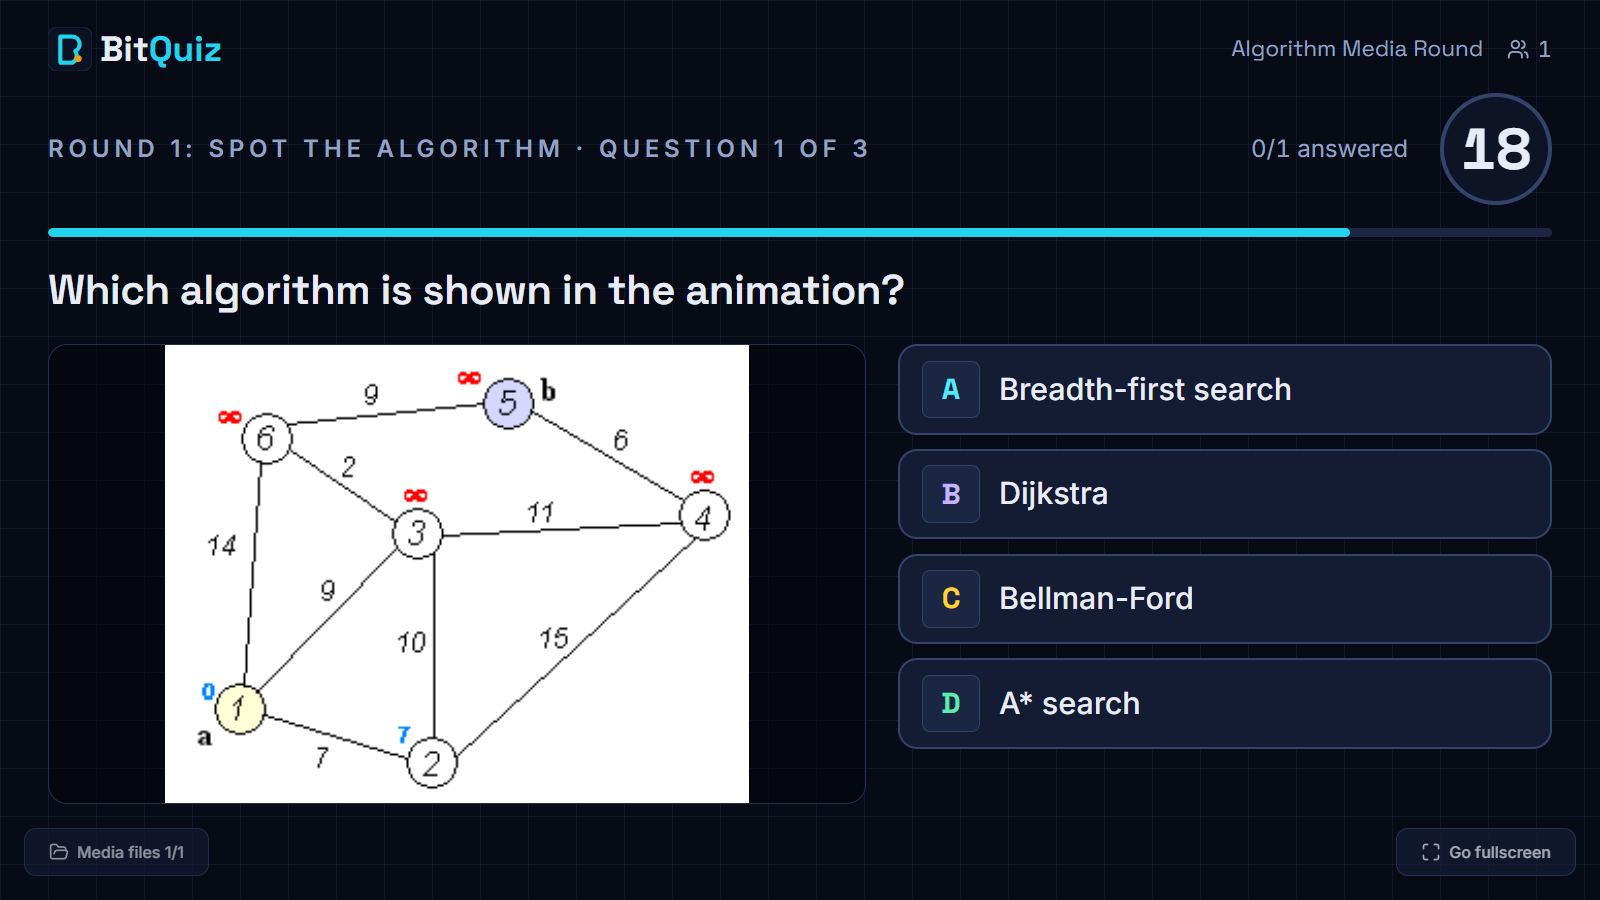
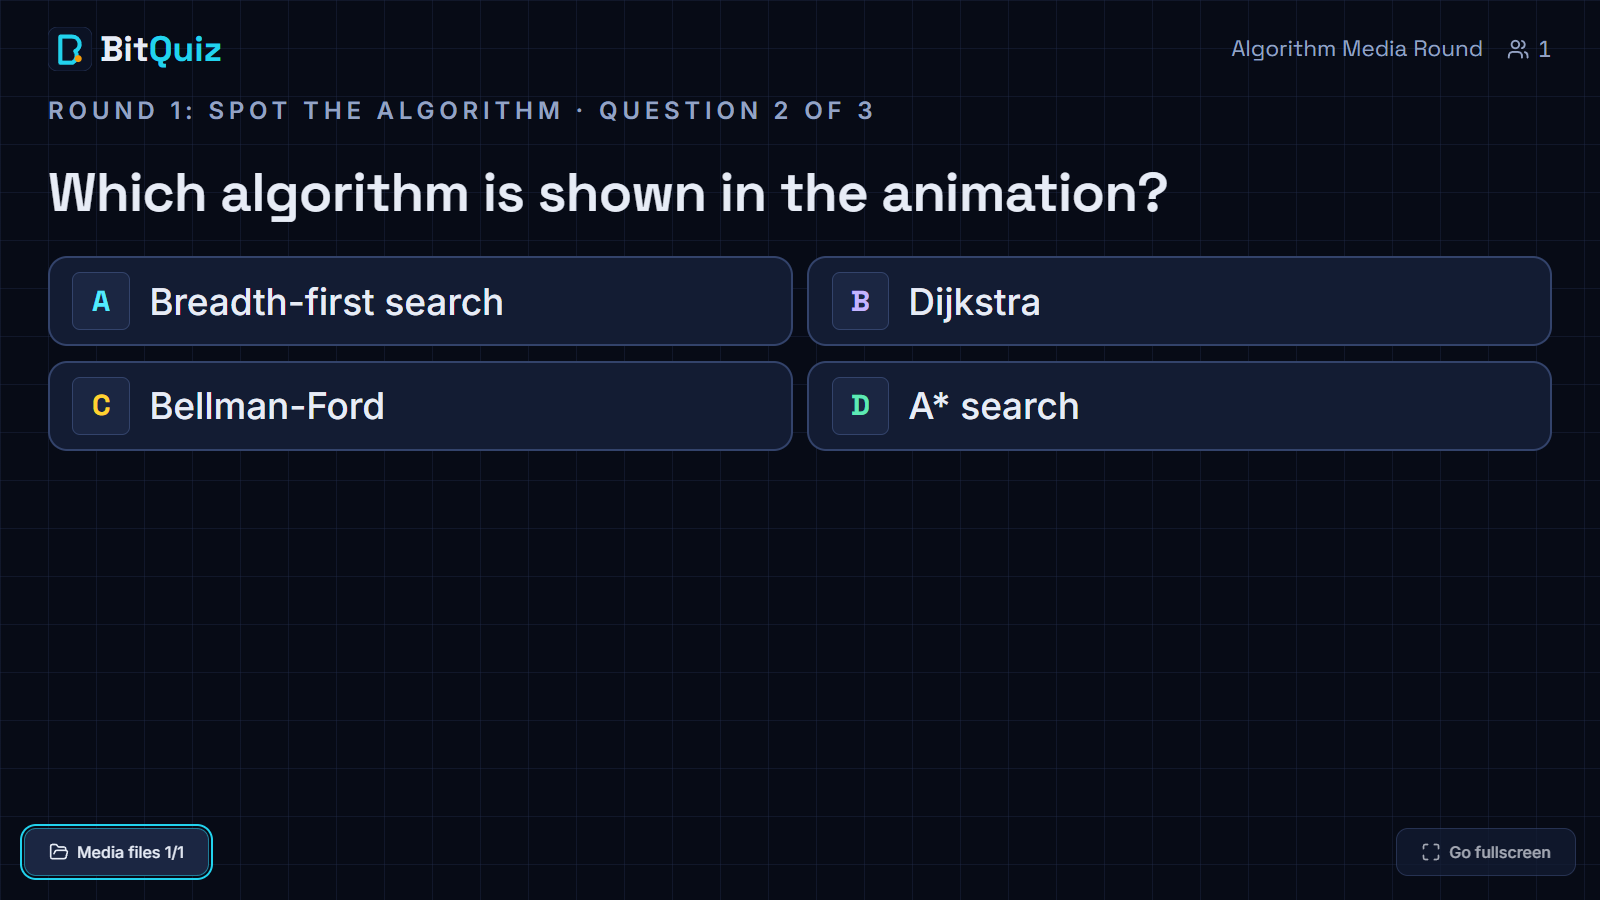
feat: media first, then a text-only question; one step per click
A question with an image or video shows the media alone first. Showing the
question now stops the video and replaces it with the question and options
in the plain text layout, so nobody answers while a video plays. Video
controls only work while the media is on screen, and the media stage can't
be skipped with "Show + open next".

The console's main button ignored nothing, so a double click ran two steps:
it skipped a video's media stage, closed answering the moment it opened, or
jumped past a reveal. After a click the button now waits until the step has
taken effect, and holding Space no longer repeats steps.

diff --git a/server/src/engine/engine.ts b/server/src/engine/engine.ts
@@ -114,7 +114,7 @@ function stripRevision(command: Command): Record<string, unknown> {
 // Command handlers
 // ---------------------------------------------------------------------------
 
-/** Stops the projector video (time's up, void, or a question without media). */
+/** Stops the projector video (question shown, void, or a question without media). */
 const stopMedia = { mediaPlaying: false } satisfies Prisma.CompetitionUpdateInput;
 
 /** Playback for a question that is being shown: its video starts from the beginning, otherwise nothing plays. */
@@ -151,9 +151,11 @@ async function apply(tx: Tx, c: Competition, command: Command, now: Date, actor:
     case 'SHOW_QUESTION': {
       requireStatus(c, 'LIVE');
       const current = await currentQuestion(tx, c);
-      // Second step of a media question: the media has been shown, now show the question and options.
+      // Second step of a media question: the media is done; the question and options replace it
+      // (text only, as for any other question), so the video stops.
       if (current?.status === 'MEDIA' && (!command.questionId || command.questionId === current.id)) {
         await moveQuestion(tx, current, 'SHOWN', {});
+        await tx.competition.update({ where: { id: c.id }, data: stopMedia });
         return { log: { questionId: current.id, stage: 'details' } };
       }
       await requireNoActiveQuestion(tx, c);
@@ -172,7 +174,6 @@ async function apply(tx: Tx, c: Competition, command: Command, now: Date, actor:
       requireStatus(c, 'LIVE');
       const current = await currentQuestion(tx, c);
       let target: QuestionWithRound;
-      let newlyShown = false;
       if (
         current &&
         (current.status === 'SHOWN' || current.status === 'MEDIA') &&
@@ -183,15 +184,16 @@ async function apply(tx: Tx, c: Competition, command: Command, now: Date, actor:
         // "Show + Open" in one step.
         await requireNoActiveQuestion(tx, c);
         target = await pickQuestion(tx, c, command.questionId);
-        newlyShown = true;
+        // Media always comes first, on its own; it can't be skipped by opening straight away.
+        if (target.mediaRef) throw invalid('This question starts with its media: use "Show next question"');
       }
       const { timeLimitSec } = questionRule(target, target.round);
       const endsAt = new Date(now.getTime() + timeLimitSec * 1000);
       await moveQuestion(tx, target, 'OPEN', { shownAt: target.shownAt ?? now, openedAt: now, endsAt });
       await tx.competition.update({
         where: { id: c.id },
-        // Opening answering leaves a playing video alone; only a newly shown question starts its media.
-        data: { currentQuestionId: target.id, displayMode: 'QUESTION', ...(newlyShown ? mediaFor(target) : {}) },
+        // Answering happens on the text-only question: no video plays while people answer.
+        data: { currentQuestionId: target.id, displayMode: 'QUESTION', ...stopMedia },
       });
       return { schedule: { questionId: target.id, endsAt }, log: { questionId: target.id, timeLimitSec } };
     }
@@ -350,6 +352,7 @@ async function apply(tx: Tx, c: Competition, command: Command, now: Date, actor:
       requireStatus(c, 'LIVE');
       const current = await currentQuestion(tx, c);
       if (!current?.mediaRef || current.mediaKind !== 'VIDEO') throw invalid('The current question has no video');
+      if (current.status !== 'MEDIA') throw invalid('The video is only on screen before the question is shown');
       await tx.competition.update({
         where: { id: c.id },
         data: command.type === 'MEDIA_RESTART' ? startMedia : { mediaPlaying: command.type === 'MEDIA_PLAY' },

diff --git a/web/src/pages/console/ConsolePage.tsx b/web/src/pages/console/ConsolePage.tsx
@@ -40,6 +40,9 @@ type CommandInput = Command extends infer C ? (C extends unknown ? Omit<C, 'revi
 
 export type SendCommand = (command: CommandInput, successMessage?: string) => Promise<boolean>;
 
+/** How long the main button ignores presses after a step, so a double click runs one step. */
+const STEP_SETTLE_MS = 500;
+
 const DISPLAY_MODES: Array<{ mode: DisplayMode; label: string; key: string }> = [
   { mode: 'LOBBY', label: 'Lobby', key: '' },
   { mode: 'QUESTION', label: 'Question', key: 'Q' },
@@ -95,18 +98,34 @@ export function ConsolePage() {
     ? nextStep(state.question.status, state.hasPendingQuestions)
     : nextStep(null, state?.hasPendingQuestions ?? false);
 
+  // The main button changes its label under the cursor, so a double click (or a held Space) would
+  // run two steps: skip a video's media stage, close answering just opened, or jump past a reveal.
+  // After a press, further presses wait until the step's result is on screen, plus a moment. Steps
+  // changed by the server alone (the timer running out) don't lock the button.
+  const settleUntil = useRef(0);
+  const settle = useCallback(() => {
+    settleUntil.current = Date.now() + STEP_SETTLE_MS;
+  }, []);
+  const stepKey = `${state?.question?.id ?? ''}:${step}`;
+  useEffect(() => {
+    if (Date.now() < settleUntil.current) settle();
+  }, [stepKey, settle]);
+
   const runMainStep = useCallback(() => {
     const s = stateRef.current;
     if (!s || s.competition.status !== 'LIVE') return;
+    if (Date.now() < settleUntil.current) return;
+    settle();
+    const run = (command: CommandInput) => void send(command).finally(settle);
     const current = s.question?.status ?? null;
     const action = nextStep(current, s.hasPendingQuestions);
-    if (action === 'OPEN') void send({ type: 'OPEN_QUESTION' });
-    else if (action === 'CLOSE') void send({ type: 'CLOSE_QUESTION' });
-    else if (action === 'REVEAL') void send({ type: 'REVEAL' });
-    // DETAILS: the media is on screen; showing again reveals the question text and options.
-    else if (action === 'SHOW' || action === 'NEXT' || action === 'DETAILS') void send({ type: 'SHOW_QUESTION' });
+    if (action === 'OPEN') run({ type: 'OPEN_QUESTION' });
+    else if (action === 'CLOSE') run({ type: 'CLOSE_QUESTION' });
+    else if (action === 'REVEAL') run({ type: 'REVEAL' });
+    // DETAILS: the media is on screen; showing again replaces it with the question and options.
+    else if (action === 'SHOW' || action === 'NEXT' || action === 'DETAILS') run({ type: 'SHOW_QUESTION' });
     else if (action === 'FINISH') setConfirmFinish(true);
-  }, [send]);
+  }, [send, settle]);
 
   useEffect(() => {
     const onKey = (event: KeyboardEvent) => {
@@ -117,6 +136,7 @@ export function ConsolePage() {
       if (!s) return;
       if (event.code === 'Space' && target.tagName !== 'BUTTON') {
         event.preventDefault();
+        if (event.repeat) return;
         runMainStep();
       } else if (event.key.toLowerCase() === 'l') void send({ type: 'SET_DISPLAY', mode: 'LEADERBOARD' });
       else if (event.key.toLowerCase() === 'q') void send({ type: 'SET_DISPLAY', mode: 'QUESTION' });

diff --git a/server/test/media.test.ts b/server/test/media.test.ts
@@ -88,6 +88,12 @@ describe.skipIf(!hasDatabase)('question media (integration)', () => {
       .set(CSRF)
       .send(question(3, { mediaKind: 'IMAGE', mediaSource: 'LOCAL', mediaRef: 'graph.png', mediaOnPhones: true }));
     expect(localOnPhones.status).toBe(400);
+
+    const image = await owner
+      .post(`/api/competitions/rounds/${roundId}/questions`)
+      .set(CSRF)
+      .send(question(3, { mediaKind: 'IMAGE', mediaSource: 'LINK', mediaRef: 'https://example.com/graph.png' }));
+    expect(image.status).toBe(201);
   });
 
   it('starts the video when a question is shown, and the console can pause and restart it', async () => {
@@ -110,16 +116,18 @@ describe.skipIf(!hasDatabase)('question media (integration)', () => {
     expect(await detail()).toMatchObject({ mediaPlaying: true, mediaRestartCount: 2 });
   });
 
-  it('shows the question and options on the second step, and opening answering keeps the video going', async () => {
+  it('replaces the media with the text-only question on the second step', async () => {
     expect((await command({ type: 'SHOW_QUESTION' })).status).toBe(200);
     expect(await questionStatus(1)).toBe('SHOWN');
+    // The video stops: the question and options take its place.
+    expect(await detail()).toMatchObject({ mediaPlaying: false, mediaRestartCount: 2 });
+    const play = await command({ type: 'MEDIA_PLAY' });
+    expect(play.status).toBe(409);
+    expect(play.body.error.message).toMatch(/before the question is shown/);
     expect((await command({ type: 'OPEN_QUESTION' })).status).toBe(200);
     expect(await questionStatus(1)).toBe('OPEN');
-    // Same restart count as before: opening didn't jump the video back to the start.
-    expect(await detail()).toMatchObject({ mediaPlaying: true, mediaRestartCount: 2 });
-    // Time's up: the video stops so the reveal isn't talked over.
-    await command({ type: 'CLOSE_QUESTION' });
     expect((await detail()).mediaPlaying).toBe(false);
+    await command({ type: 'CLOSE_QUESTION' });
     await command({ type: 'REVEAL' });
   });
 
@@ -134,5 +142,17 @@ describe.skipIf(!hasDatabase)('question media (integration)', () => {
     const res = await command({ type: 'MEDIA_PLAY' });
     expect(res.status).toBe(409);
     expect(res.body.error.message).toMatch(/no video/);
+  });
+
+  it('never skips the media stage: a question with media cannot be shown and opened at once', async () => {
+    await command({ type: 'OPEN_QUESTION' });
+    await command({ type: 'CLOSE_QUESTION' });
+    await command({ type: 'REVEAL' });
+    const skip = await command({ type: 'OPEN_QUESTION' });
+    expect(skip.status).toBe(409);
+    expect(skip.body.error.message).toMatch(/starts with its media/);
+    expect(await questionStatus(3)).toBe('PENDING');
+    expect((await command({ type: 'SHOW_QUESTION' })).status).toBe(200);
+    expect(await questionStatus(3)).toBe('MEDIA');
   });
 });

diff --git a/web/src/pages/console/CurrentQuestionPanel.tsx b/web/src/pages/console/CurrentQuestionPanel.tsx
@@ -56,6 +56,9 @@ export function CurrentQuestionPanel({ state, clock, busy, send, step, onMainSte
   const main = step ? STEP_LABEL[step] : null;
   const active = question && ACTIVE_QUESTION_STATUSES.includes(question.status);
   const totalAnswers = Object.values(question?.distribution ?? {}).reduce((a, b) => a + (b ?? 0), 0);
+  // A question with media always starts with the media alone, so it can't be shown and opened at once.
+  const nextPending = state.runSheet.flatMap((r) => r.questions).find((q) => q.status === 'PENDING');
+  const canShowAndOpen = !active && nextPending !== undefined && !nextPending.hasMedia;
 
   return (
     <Card className="overflow-hidden">
@@ -106,7 +109,8 @@ export function CurrentQuestionPanel({ state, clock, busy, send, step, onMainSte
           <>
             <p className="text-xl font-semibold leading-snug">{question.prompt}</p>
             {question.code && <CodeBlock code={question.code} language={question.codeLanguage} className="text-sm" />}
-            {question.media && (
+            {/* The media is on screen only in its own stage; the question itself is text only. */}
+            {question.media && question.status === 'MEDIA' && (
               <MediaPanel
                 questionId={question.id}
                 media={question.media}
@@ -170,7 +174,7 @@ export function CurrentQuestionPanel({ state, clock, busy, send, step, onMainSte
               <kbd className="ml-2 rounded bg-black/20 px-1.5 py-0.5 font-mono text-xs">Space</kbd>
             </Button>
           )}
-          {!active && state.hasPendingQuestions && (
+          {canShowAndOpen && (
             <Button
               size="lg"
               disabled={busy}

diff --git a/server/src/realtime/views.ts b/server/src/realtime/views.ts
@@ -76,11 +76,13 @@ export function toCompetitionView(c: CompetitionRecord): CompetitionView {
 }
 
 /**
- * Media a role receives. The projector and console get everything; phones only get linked images
- * marked "show on phones", so 300 phones never download a video.
+ * Media a role receives. The projector shows media only in the media stage: once the question is
+ * shown, it gets the text-only layout. Phones only get linked images marked "show on phones", so
+ * 300 phones never download a video.
  */
 export function mediaFor(role: ViewerRole, question: QuestionRecord): QuestionMedia | null {
   if (!question.mediaKind || !question.mediaSource || !question.mediaRef) return null;
+  if (role === 'screen' && question.status !== 'MEDIA') return null;
   const media: QuestionMedia = {
     kind: question.mediaKind,
     source: question.mediaSource,

diff --git a/server/test/views.test.ts b/server/test/views.test.ts
@@ -77,10 +77,16 @@ describe('mediaFor', () => {
   });
   const projectorImage = withMedia({ mediaKind: 'IMAGE', mediaSource: 'LOCAL', mediaRef: 'graph.png' });
 
-  it('gives the projector and console every kind of media', () => {
+  it('gives the projector every kind of media in the media stage, and the console always', () => {
     for (const q of [video, phoneImage, projectorImage]) {
-      expect(mediaFor('screen', q)).not.toBeNull();
+      expect(mediaFor('screen', { ...q, status: 'MEDIA' })).not.toBeNull();
       expect(mediaFor('gm', q)).not.toBeNull();
+    }
+  });
+
+  it('shows the question text-only on the projector once the media stage is over', () => {
+    for (const status of ['SHOWN', 'OPEN', 'CLOSED', 'REVEALED'] as const) {
+      expect(mediaFor('screen', { ...video, status })).toBeNull();
     }
   });
 

diff --git a/web/src/pages/screen/ScreenPage.tsx b/web/src/pages/screen/ScreenPage.tsx
@@ -218,8 +218,8 @@ function Question({
   const many = question.options.length > 4;
   // Media or code takes the left column; options then stack on the right.
   const side = Boolean(question.code || question.media);
-  // Media stage: only the image or video, large. The same MediaView stays mounted when the question
-  // and options appear, so a playing video is never reloaded.
+  // Media stage: only the image or video, large. When the question is shown, the server stops
+  // sending the media and this becomes the text-only layout.
   const staged = question.status === 'MEDIA';
 
   return (

diff --git a/server/src/realtime/hub.ts b/server/src/realtime/hub.ts
@@ -291,6 +291,7 @@ async function buildCore(competitionId: string): Promise<Core | null> {
         status: q.status,
         correctOptionId: q.correctOptionId as OptionId,
         optionCount: Array.isArray(q.options) ? q.options.length : 0,
+        hasMedia: q.mediaRef !== null,
       })),
     })),
     hasPendingQuestions: flat.some((f) => f.question.status === 'PENDING'),

diff --git a/shared/src/views.ts b/shared/src/views.ts
@@ -114,6 +114,8 @@ export interface RunSheetQuestion {
   status: QuestionStatus;
   correctOptionId: OptionId;
   optionCount: number;
+  /** Starts with its image or video on its own. */
+  hasMedia: boolean;
 }
 
 export interface RunSheetRound {

diff --git a/README.md b/README.md
@@ -52,7 +52,7 @@ Built for IEEE CS KUET quiz events of 100–300 participants in one hall. Tested
 
 **Images and videos** ([guide](docs/MEDIA.md))
 
-| Step 1: media only (phones say "Watch the screen")            | Step 2: question and options appear                           |
+| Step 1: media only (phones say "Watch the screen")            | Step 2: the media is replaced by the question and options     |
 | ------------------------------------------------------------- | ------------------------------------------------------------- |
 | ![Media stage](docs/screenshots/projector-media-stage.png)    | ![Question and options](docs/screenshots/projector-media.png) |
 | **Console: video controls**                                   | **Editor: media with preview**                                |
@@ -93,7 +93,7 @@ Built for IEEE CS KUET quiz events of 100–300 participants in one hall. Tested
 **Organizers**
 
 - **Text and code questions** with 2–6 options (True/False included), syntax highlighting, explanations, and per-question time and points.
-- **Images and videos** from YouTube, Google Drive or any https link, or from files on the projector computer (works offline). Media questions are shown in two steps: first the image or video alone (the video starts, phones say "Watch the screen", the question and options are not sent yet), then the question and options when the organizer shows them. Videos play on the projector only and are controlled from the console (play, pause, restart); the answer timer starts when you open answering. See [docs/MEDIA.md](docs/MEDIA.md).
+- **Images and videos** from YouTube, Google Drive or any https link, or from files on the projector computer (works offline). Media questions are shown in two steps: first the image or video alone (the video starts, phones say "Watch the screen", the question and options are not sent yet), then the question and options in the plain text layout when the organizer shows them (the video stops). Videos play on the projector only and are controlled from the console (play, pause, restart) while they are on screen; the answer timer starts when you open answering. See [docs/MEDIA.md](docs/MEDIA.md).
 - **CSV import** with a row-by-row preview of problems (Excel/Google Sheets friendly), plus **results** and **all-answers** CSV exports.
 - **Projector optional.** Projector controls appear only when a projector screen is connected. Without one, the console shows the join QR code and link.
 - **Invite-only organizer accounts.** Owners invite organizers, who set their own password from a single-use link. The link can be shared directly (e.g. WhatsApp), so no email service is required. With email configured, invitations, verification and "forgot password" links are also emailed.

diff --git a/docs/MEDIA.md b/docs/MEDIA.md
@@ -48,12 +48,15 @@ A question with an image or video is shown in two steps, so the room watches fir
 | Console button | Projector | Phones |
 | --- | --- | --- |
 | **Show next question** | The image or video alone, large; **the video starts automatically** | "Watch the screen", no question and no options |
-| **Show question & options** | The question and options appear beside the media; the video keeps playing | The question and options, locked |
+| **Show question & options** | The video stops and the question and options replace it, text only like any other question | The question and options, locked |
 | **Open answering** | Timer runs | Participants answer |
 
-- Use **Pause video**, **Play video** and **Restart** in the console at any time. The console preview is muted; sound plays on the projector.
+- While the video is on screen, use **Pause video**, **Play video** and **Restart** in the console. When it ends, the projector shows "Video finished" and the console offers **Replay video**. The console preview is muted; sound plays on the projector.
 - In the first step the question text and options are not sent to phones or the projector at all, so nobody can read them early.
-- **Show + open answering** skips the second step when time is short. Questions without media are shown in one step as before.
+- **Show + open answering** goes from the video straight to answering when time is short.
+- The media always comes first: **Show + open next** isn't offered when the next question has media.
+- Questions without media are shown in one step as before.
+- The main button ignores a second click until the first one has taken effect, so a double click never runs two steps.
 
 Browsers block video sound until someone clicks the page. Click **Go fullscreen** on the projector before the quiz starts. If a video still doesn't start, the projector shows **Click to start the video**.
 

diff --git a/CHANGELOG.md b/CHANGELOG.md
@@ -2,6 +2,17 @@
 
 All notable changes to this project are documented here. The format follows [Keep a Changelog](https://keepachangelog.com/en/1.1.0/) and the project uses [Semantic Versioning](https://semver.org/).
 
+## [1.4.0] - 2026-10-06
+
+### Changed
+
+- **Media, then a text-only question.** A question with an image or video shows the media alone first. **Show question & options** now stops the video and replaces it with the question and options in the plain text layout, instead of showing them beside the media. Nobody answers while a video is playing, and the screen is never split. Video controls are only available while the media is on screen.
+- The media stage can't be skipped: **Show + open next** isn't offered (and the server refuses it) when the next question has media.
+
+### Fixed
+
+- **A double click on the main console button ran two steps.** The button's label changes under the cursor, so a second click skipped a video's media stage, closed answering the moment it opened, or jumped past a reveal. After a click, the button now waits until the step has taken effect. Holding Space no longer repeats steps.
+
 ## [1.3.2] - 2026-10-06
 
 ### Fixed
